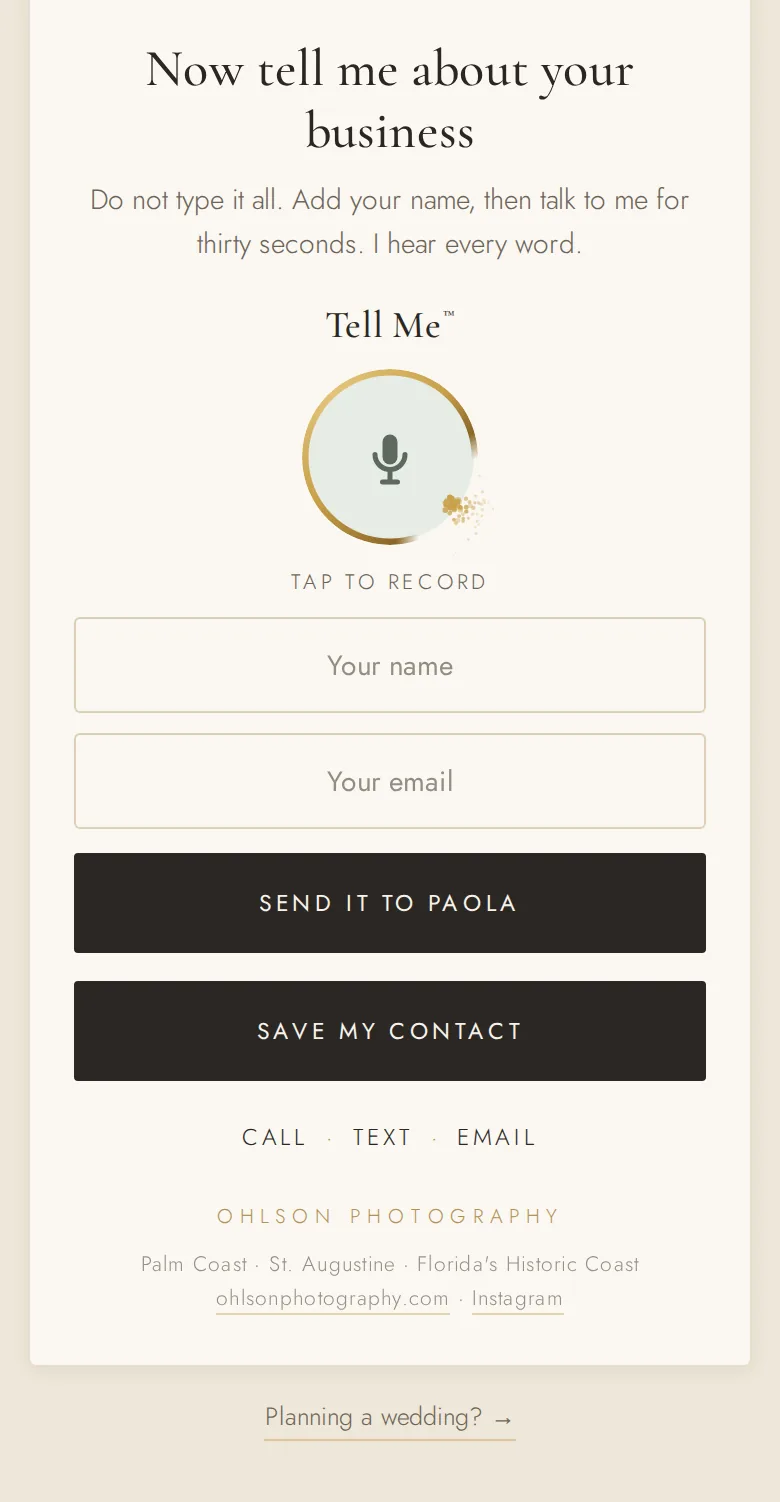
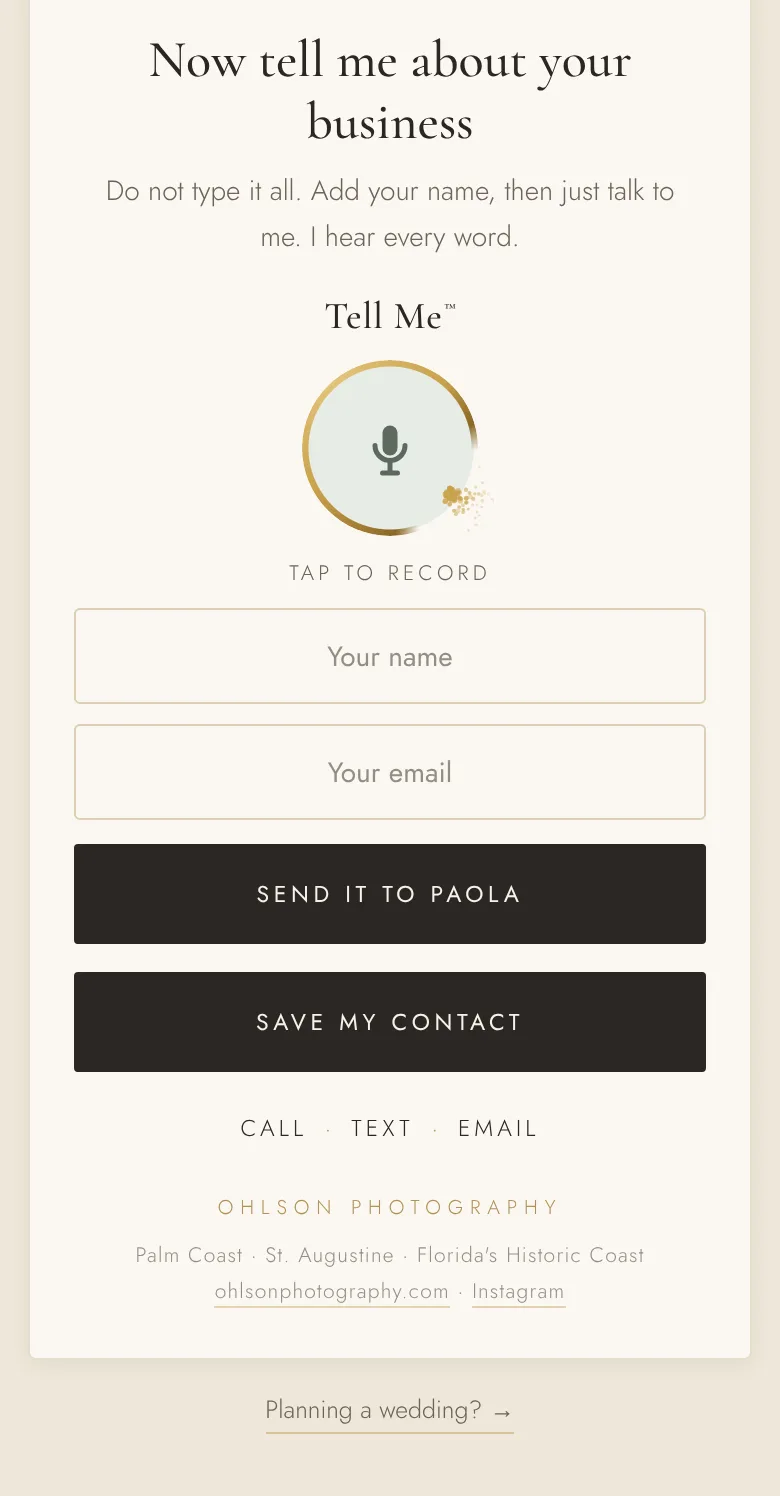
Homepage: add automation section before the invitation
New paper section 'When everything waits on you' with the shirt question as its lead, four automation lines, and a fresh Tell Me screenshot from the live Ohlson pocket (no time limit in the copy). Also adds the three automation services to the homepage structured data.

Claude-Session: https://claude.ai/code/session_01AG1PCJmMxtRFS7XEwHYNY9

diff --git a/index.html b/index.html
@@ -1332,6 +1332,39 @@
             "@id": "https://ownersbehindit.com/#business"
           }
         }
+      },
+      {
+        "@type": "Offer",
+        "itemOffered": {
+          "@type": "Service",
+          "name": "Business automation setup",
+          "description": "New inquiries captured and sorted, follow-up messages, appointment reminders and review requests, built around how the owner already works.",
+          "provider": {
+            "@id": "https://ownersbehindit.com/#business"
+          }
+        }
+      },
+      {
+        "@type": "Offer",
+        "itemOffered": {
+          "@type": "Service",
+          "name": "Customer follow-up and review requests",
+          "description": "Automatic follow-up after a call, quote or finished job, and a review request sent at the right moment.",
+          "provider": {
+            "@id": "https://ownersbehindit.com/#business"
+          }
+        }
+      },
+      {
+        "@type": "Offer",
+        "itemOffered": {
+          "@type": "Service",
+          "name": "Scheduling and booking setup",
+          "description": "Online booking connected to the owner's calendar, with confirmations and reminders sent automatically.",
+          "provider": {
+            "@id": "https://ownersbehindit.com/#business"
+          }
+        }
       }
     ]
   }
@@ -1587,6 +1620,22 @@
         </ul>
       </div>
       <figure class="slot land"><img src="/images/ohlson-search-console.jpg" width="900" height="564" loading="lazy" alt="Google Search Console for Ohlson Photography showing 3,310 appearances in Google over three months"><figcaption>Paola&rsquo;s site, kept up after launch: 3,310 appearances in Google in three months.</figcaption></figure>
+    </div>
+  </section>
+  <section class="feat paper" id="automation" aria-labelledby="automation-title">
+    <div class="shell feat-grid">
+      <div class="feat-text">
+        <span class="eyebrow">When everything waits on you</span>
+        <h2 id="automation-title">What only happens when you remember can run on its own.</h2>
+        <p class="feat-lead">Could your business run for a week without you?</p>
+        <ul class="dots">
+            <li><strong>Every inquiry is caught.</strong> Calls, forms and voice messages land in one place, sorted by what is urgent.</li>
+            <li><strong>Follow-up goes out on its own.</strong> After the call, the quote and the finished job.</li>
+            <li><strong>Reviews get asked for.</strong> Right when the customer is happiest.</li>
+            <li><strong>Booking runs itself.</strong> Online, with reminders.</li>
+        </ul>
+      </div>
+      <figure class="slot phoneshot"><img src="/images/ohlson-tellme-business.webp" width="780" height="1502" loading="lazy" alt="Ohlson Photography Tell Me button: customers leave a voice message instead of filling out a form"><figcaption>Paola&rsquo;s Tell Me: customers talk instead of typing, and it lands with her.</figcaption></figure>
     </div>
   </section>
   <section class="close" id="invite" aria-labelledby="invite-title">
